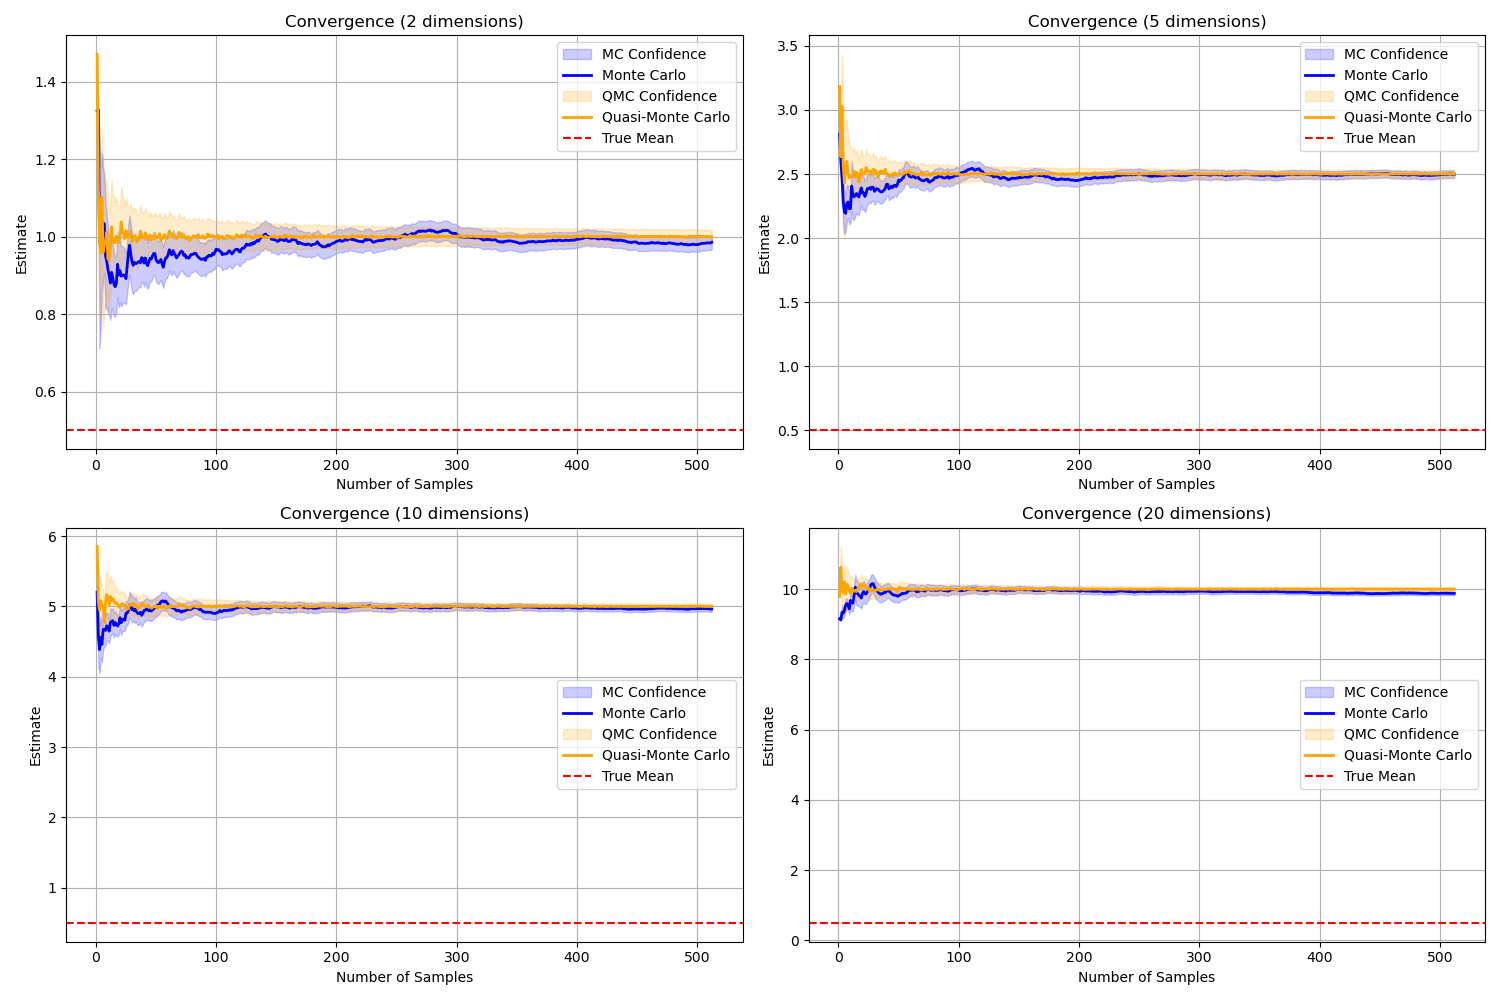
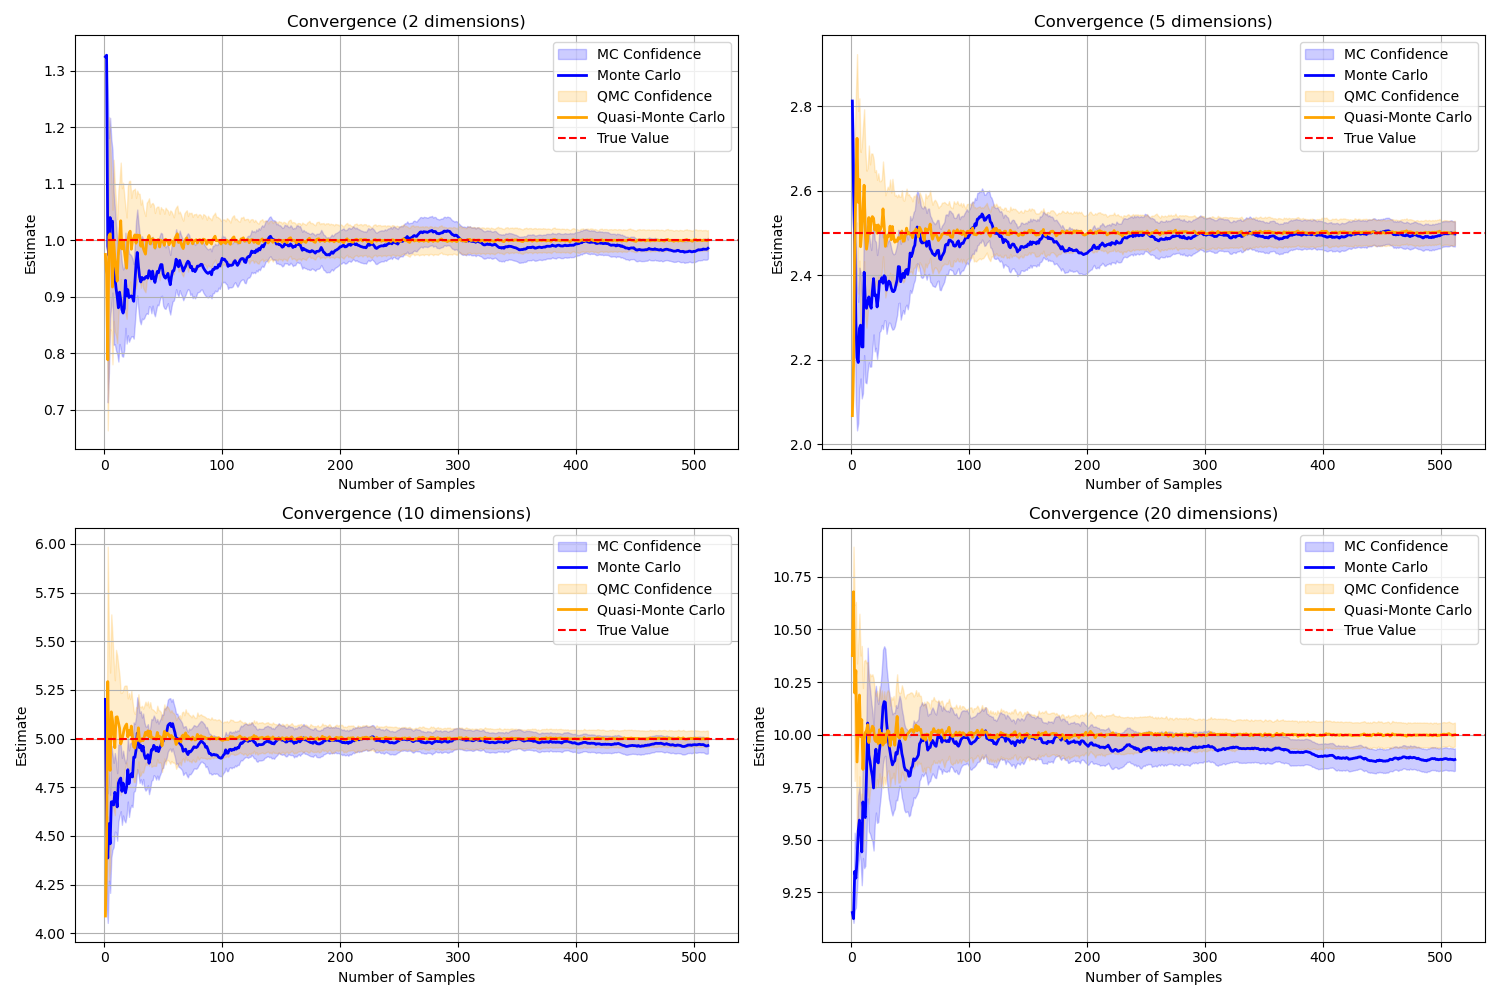
Refactor distribution classes and enhance sampling examples: - Removed `MultivariateNormal` and `Mixture` classes from `implementations.py`. - Added `inverse_cdf` method to `UniformCube` class for uniform sample transformation. - Updated `conditional_probability.py` to include a ground truth line in

diff --git a/distributions/implementations.py b/distributions/implementations.py
@@ -82,55 +82,6 @@ class GaussianMV(Distribution):
         # Transform to desired mean and covariance
         return self.mean + z @ self.L.T
 
-class MultivariateNormal(Distribution):
-    """Multivariate normal distribution."""
-    
-    def __init__(self, mean: np.ndarray = None, cov: np.ndarray = None):
-        self.mean = mean
-        self.cov = cov
-        self.inv_cov = None
-        self.norm_const = None
-        
-    def setup(self, n_dimensions: int):
-        if self.mean is None:
-            self.mean = np.zeros(n_dimensions)
-        if self.cov is None:
-            self.cov = np.eye(n_dimensions)
-        self.inv_cov = np.linalg.inv(self.cov)
-        self.norm_const = (
-            (2 * np.pi) ** (-n_dimensions/2) * 
-            np.linalg.det(self.cov) ** (-0.5)
-        )
-    
-    def pdf(self, x: np.ndarray) -> float:
-        diff = x - self.mean
-        return self.norm_const * np.exp(
-            -0.5 * diff.T @ self.inv_cov @ diff
-        )
-    
-    def log_pdf(self, x: np.ndarray) -> float:
-        diff = x - self.mean
-        return (
-            np.log(self.norm_const) - 
-            0.5 * diff.T @ self.inv_cov @ diff
-        )
-
-class Mixture(Distribution):
-    """Mixture of distributions."""
-    
-    def __init__(self, distributions: list, weights: np.ndarray):
-        self.distributions = distributions
-        self.weights = weights / np.sum(weights)
-    
-    def pdf(self, x: np.ndarray) -> float:
-        return np.sum([
-            w * d.pdf(x) 
-            for w, d in zip(self.weights, self.distributions)
-        ])
-    
-    def log_pdf(self, x: np.ndarray) -> float:
-        return np.log(self.pdf(x)) 
-
 class UniformCube(Distribution):
     """Uniform distribution over a unit cube [0,1]^n."""
     
@@ -145,3 +96,18 @@ class UniformCube(Distribution):
     def log_pdf(self, x: np.ndarray) -> float:
         inside = np.all((x >= 0) & (x <= 1))
         return 0.0 if inside else -np.inf
+    
+    def inverse_cdf(self, u: np.ndarray) -> np.ndarray:
+        """
+        Transform uniform samples to this distribution.
+        For uniform cube, this is just the identity function.
+        
+        Args:
+            u: Uniform samples of shape (n_samples, n_dimensions)
+            
+        Returns:
+            The same samples unchanged since they're already uniform in [0,1]
+        """
+        if u.shape[1] != self.n_dimensions:
+            raise ValueError(f"Input shape {u.shape} does not match distribution dimensions {self.n_dimensions}")
+        return u

diff --git a/examples/quasi-monte-carlo-exp/qmc_comparison.py b/examples/quasi-monte-carlo-exp/qmc_comparison.py
@@ -4,7 +4,7 @@ from samplers.implementations import UnitCubeSampler, SobolSampler
 from main import run_sampling_experiment
 import matplotlib.pyplot as plt
 
-def average_coordinate(x: np.ndarray) -> float:
+def l1_norm(x: np.ndarray) -> float:
     return np.sum(x)
 
 def run_comparison(n_dimensions: int, n_samples: int):
@@ -15,7 +15,7 @@ def run_comparison(n_dimensions: int, n_samples: int):
     mc_sampler = UnitCubeSampler()
     mc_results = run_sampling_experiment(
         distribution=dist,
-        target_function=average_coordinate,
+        target_function=l1_norm,
         sampler=mc_sampler,
         n_samples=n_samples,
         n_dimensions=n_dimensions
@@ -25,16 +25,17 @@ def run_comparison(n_dimensions: int, n_samples: int):
     qmc_sampler = SobolSampler(scramble=True)
     qmc_results = run_sampling_experiment(
         distribution=dist,
-        target_function=average_coordinate,
+        target_function=l1_norm,
         sampler=qmc_sampler,
         n_samples=n_samples,
         n_dimensions=n_dimensions
     )
     
     # Print results
+    true_expectation = n_dimensions / 2
     print(f"\nResults for {n_dimensions} dimensions:")
     print(f"Number of samples: {n_samples}")
-    print(f"True expectation: 0.500000")
+    print(f"True expectation: {true_expectation:.6f}")
     print(f"MC  estimate: {mc_results['expectation']:.6f}")
     print(f"QMC estimate: {qmc_results['expectation']:.6f}")
     print(f"MC  variance: {mc_results['variance']:.6f}")
@@ -85,7 +86,7 @@ for i, dim in enumerate(dimensions, 1):
     plt.plot(qmc_data.sample_indices, qmc_data.running_means,
              color='orange', linewidth=2, label='Quasi-Monte Carlo')
     
-    plt.axhline(y=0.5, color='r', linestyle='--', label='True Mean')
+    plt.axhline(y=dim/2, color='r', linestyle='--', label='True Value')
     plt.xlabel('Number of Samples')
     plt.ylabel('Estimate')
     plt.title(f'Convergence ({dim} dimensions)')
@@ -94,7 +95,7 @@ for i, dim in enumerate(dimensions, 1):
 
 plt.tight_layout()
 plt.show()
-plt.savefig('examples/qmc_comparison.png')
+plt.savefig('examples/quasi-monte-carlo-exp/qmc_comparison.png')
 # Visualize 2D point sets for comparison
 if 2 in dimensions:
     n_vis_samples = 1000
@@ -129,4 +130,4 @@ if 2 in dimensions:
     
     plt.tight_layout()
     plt.show() 
-plt.savefig('examples/qmc_comparison_2d.png')
+plt.savefig('examples/quasi-monte-carlo-exp/qmc_comparison_2d.png')

diff --git a/examples/importance-sampling-exp/conditional_probability.py b/examples/importance-sampling-exp/conditional_probability.py
@@ -250,11 +250,15 @@ if __name__ == "__main__":
     # Plot convergence results
     plt.figure(figsize=(10, 6))
     
+    # Add ground truth line
+    plt.axhline(y=true_prob, color='black', linestyle=':', linewidth=2, 
+                label='Ground Truth')
+    
     methods = [
         (mc_results, 'blue', 'Monte Carlo'),
         (qmc_results, 'orange', 'Quasi-Monte Carlo'),
         (is_results, 'green', 'Importance Sampling'),
-        (is_qmc_results, 'red', 'IS-QMC')  # Added new method
+        (is_qmc_results, 'red', 'IS-QMC')
     ]
     
     for results, color, label in methods:
